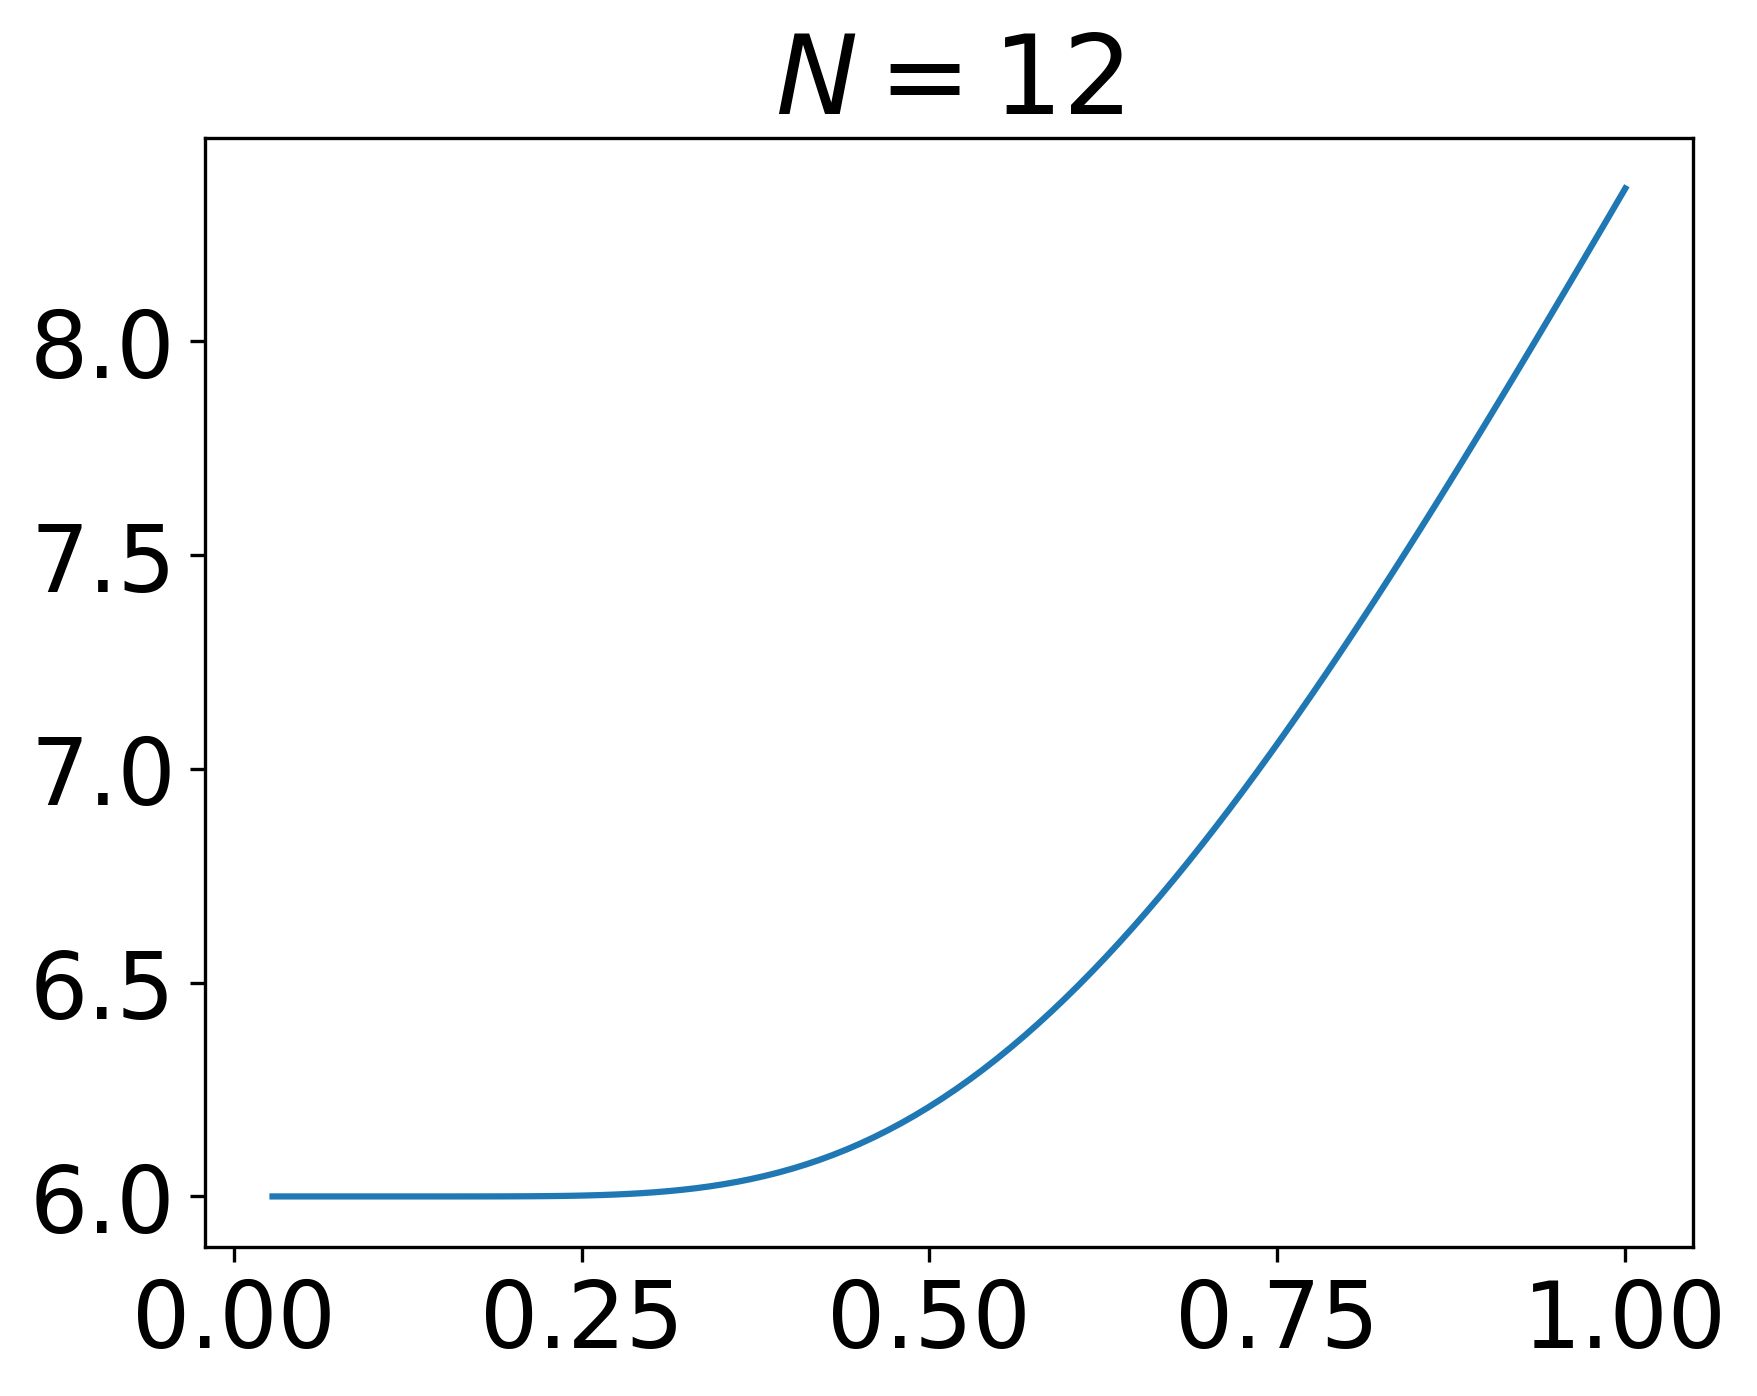
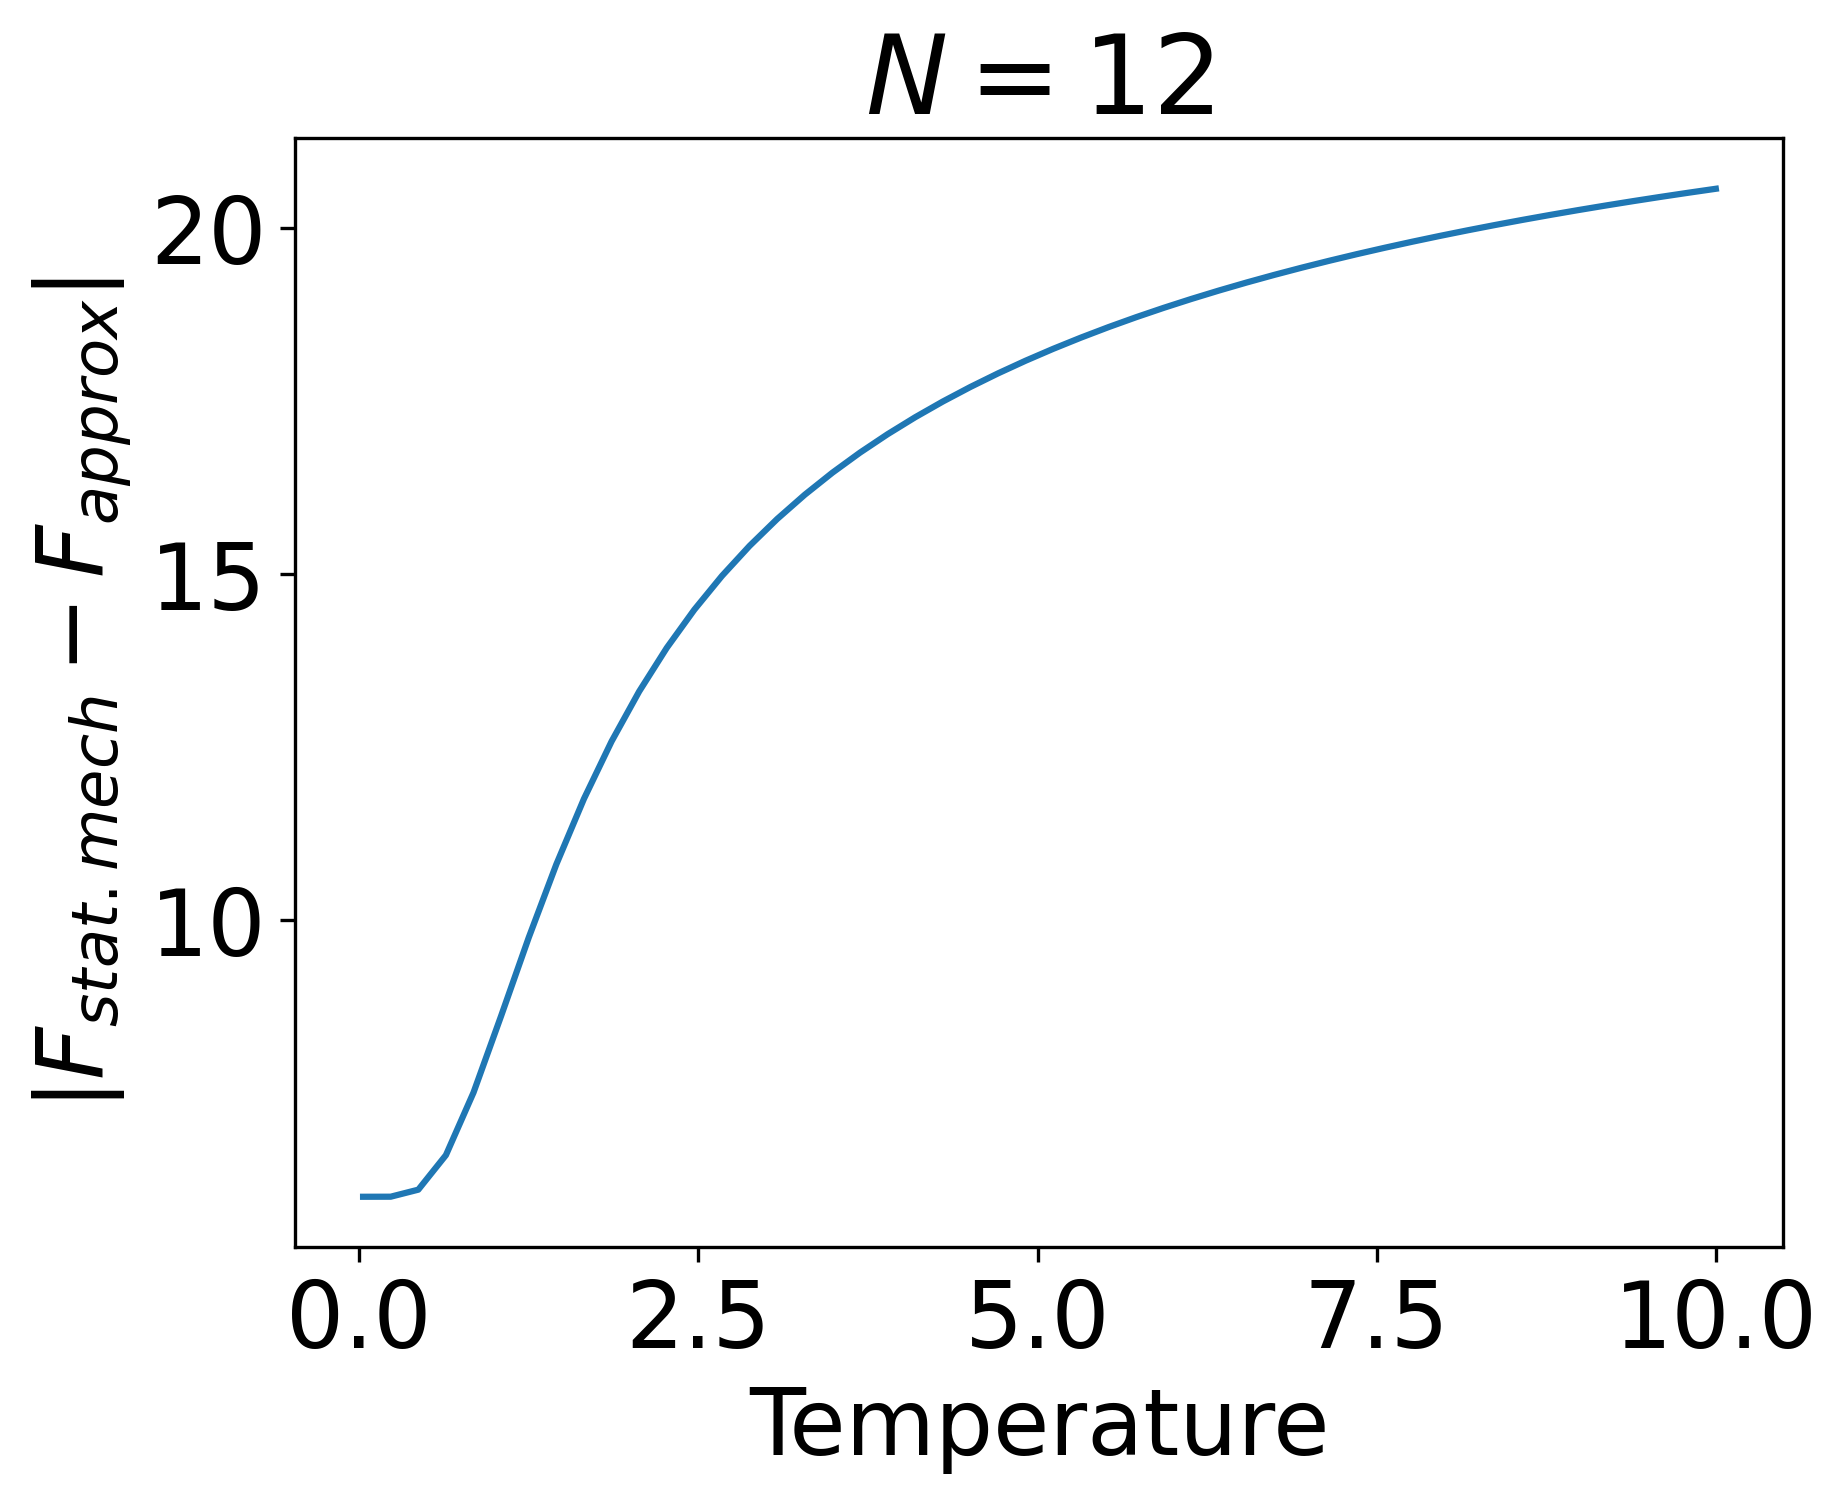
all plots ready

diff --git a/numeric.py b/numeric.py
@@ -17,12 +17,18 @@ class Result:
     energy: float
 
 
-def main(magnetic_field, magnetization_coefficient, number_of_particles, ax=None):
+def main(
+    magnetic_field,
+    magnetization_coefficient,
+    number_of_particles,
+    ax=None,
+    should_plot_diff=False,
+):
     f_stat_mech = []
     f_approx = []
     f_thermodynamics = []
     energies = []
-    temperatures = np.linspace(0.28e-1, 1, 100)
+    temperatures = np.linspace(0.28e-1, 10, 50)
     for temperature in temperatures:
         result = calculate(
             number_of_particles,
@@ -39,12 +45,20 @@ def main(magnetic_field, magnetization_coefficient, number_of_particles, ax=None
         fig, ax = plt.subplots()
 
     ax.set_title(f"$N = {number_of_particles}$")
-    ax.plot(
-        temperatures, abs(np.array(f_stat_mech) - np.array(f_approx)), label="energy"
-    )
-    # ax.plot(temperatures, f_stat_mech, label="f_stat_mech")
-    # ax.plot(temperatures, f_approx, label="f_approx")
-    # ax.plot(temperatures, f_thermodynamics, label="f_thermodynamics")
+    if should_plot_diff:
+        ax.plot(
+            temperatures,
+            abs(np.array(f_stat_mech) - np.array(f_approx)),
+            label="Energy",
+        )
+        ax.set_ylabel("$|F_{stat.mech} - F_{approx}|$")
+        ax.set_xlabel("Temperature")
+    else:
+        ax.plot(temperatures, f_stat_mech, label="f_stat_mech")
+        ax.plot(temperatures, f_approx, label="f_approx")
+        ax.plot(temperatures, f_thermodynamics, label="f_thermodynamics")
+        ax.set_ylabel("Free Energy")
+        ax.set_xlabel("Temperature")
 
 
 def calculate(
@@ -165,7 +179,7 @@ def get_number_of_combinations(
         configuration_energy = get_energy(
             spins, magnetic_field, magnetization_coefficient
         )
-        if abs(configuration_energy - energy) < max(
+        if abs(configuration_energy - energy) < 2 * max(
             abs(magnetization_coefficient), abs(magnetic_field)
         ):
             number_of_combinations += 1
@@ -191,9 +205,10 @@ def get_average_energy(
     return energy / partition_function
 
 
-flag = False
+should_plot_different_ns = False
+should_plot_diff = False
 if __name__ == "__main__":
-    if flag:
+    if should_plot_different_ns:
         numbers_of_particles = range(1, 13)
         subplots = plt.subplots(4, 3, figsize=(15, 15), layout="tight")
     else:
@@ -209,6 +224,7 @@ if __name__ == "__main__":
             ax=subplots[1][subplot_x][subplot_y]
             if len(numbers_of_particles) is not 1
             else None,
+            should_plot_diff=should_plot_diff,
         )
 
     plt.savefig("n12_diff.png", dpi=300, bbox_inches="tight")
